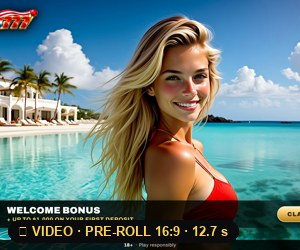
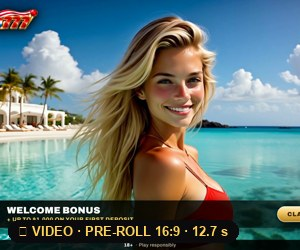
Midnight Circuit: poolside pre-roll in real motion (Higgsfield API) -- Set J and Set I 13
Nine of ten shots are now Seedance 2.5 motion clips (720p, 4 s, each from its Soul keyframe, character sheet and motion board); the red-bikini detail was blocked by the provider's content check (refunded) and stays a still with a camera move. 16:9 uses the clips full frame; 9:16 crops each over its subject and keeps two framed stills where the subject leaves a portrait window. Set J leads with the poolside pair; copy cut to two lines. Still silent until the licensed track goes in.

diff --git a/midnightcircuit/index.html b/midnightcircuit/index.html
@@ -1240,11 +1240,11 @@ footer b{color:var(--muted)}
 <!-- preroll:start -->
 <section id="preroll">
   <div class="sethead"><span class="pin reel">Set J · in-stream</span><h2>The pre-roll, cut like the reference</h2></div>
-  <p class="setlede">The format of the competitor pre-roll Leon flagged, in <b>our</b> design with the client’s own offer: ten-plus cuts of 0.8–1.3 s, the <b>150% welcome bonus + up to $1,000</b> on screen for every frame, the flag logo top-left, <b>18+</b> throughout, and a 2.5 s end card that asks for one thing. The site’s games are cut in — the Fortune Tiger statue, Zeus and Athena in real motion, the Aviator plane, and <b>PG Soft’s real super-mega-win screens</b> on a phone. Built to both in-stream specs in the June 2026 media kit: <b>pre-roll 16:9 at 1080p</b> and <b>Shorties 9:16</b>, 5–30 s, ≤ 500 MB.</p>
-  <p class="setlede"><b>Draft, and labelled so on screen.</b> Two things stand between this and a master: <b>a licensed music bed</b> (the files carry a silent track; one licensed track goes in, never two) and <b>generated motion</b> — most shots are the kit’s stills with camera moves, standing in for image-to-video clips cut from the same frames. The edit, graphics, offer and timing are final; the footage and the music are what change.</p>
+  <p class="setlede">The reference’s look — sun, pool, red and blue — in our branding, with the 150% offer on every frame. Pre-roll 16:9 and Shorties 9:16, 12.7 s each.</p>
+  <p class="setlede"><b>Silent until the licensed track goes in.</b> More cuts, including the casino version, are in <a href="#set13">Set I · 13</a>.</p>
   <div class="pr">
-    <figure class="prf"><video src="assets/video/preroll/preroll-montage-DRAFT-1920x1080.mp4" controls muted playsinline preload="metadata"></video><figcaption><b>In-stream pre-roll · 16:9</b> · <span class="mono">1920×1080 · 30 fps · 15.5 s · 7.1 MB</span> · <a href="assets/video/preroll/preroll-montage-DRAFT-1920x1080.mp4" download>download</a></figcaption></figure>
-    <figure class="prf prv"><video src="assets/video/preroll/shorties-montage-DRAFT-1080x1920.mp4" controls muted playsinline preload="metadata"></video><figcaption><b>In-stream Shorties · 9:16</b> · <span class="mono">1080×1920 · 30 fps · 15.4 s · 11.2 MB</span> · <a href="assets/video/preroll/shorties-montage-DRAFT-1080x1920.mp4" download>download</a></figcaption></figure>
+    <figure class="prf"><video src="assets/video/preroll/preroll-poolside-1920x1080.mp4" controls muted playsinline preload="metadata"></video><figcaption><b>Poolside pre-roll · 16:9</b> · <span class="mono">1920×1080 · 30 fps · 12.7 s · 7.4 MB</span> · <a href="assets/video/preroll/preroll-poolside-1920x1080.mp4" download>download</a></figcaption></figure>
+    <figure class="prf prv"><video src="assets/video/preroll/shorties-poolside-1080x1920.mp4" controls muted playsinline preload="metadata"></video><figcaption><b>Poolside Shorties · 9:16</b> · <span class="mono">1080×1920 · 30 fps · 12.7 s · 6.5 MB</span> · <a href="assets/video/preroll/shorties-poolside-1080x1920.mp4" download>download</a></figcaption></figure>
   </div>
 </section>
 <!-- preroll:end -->
